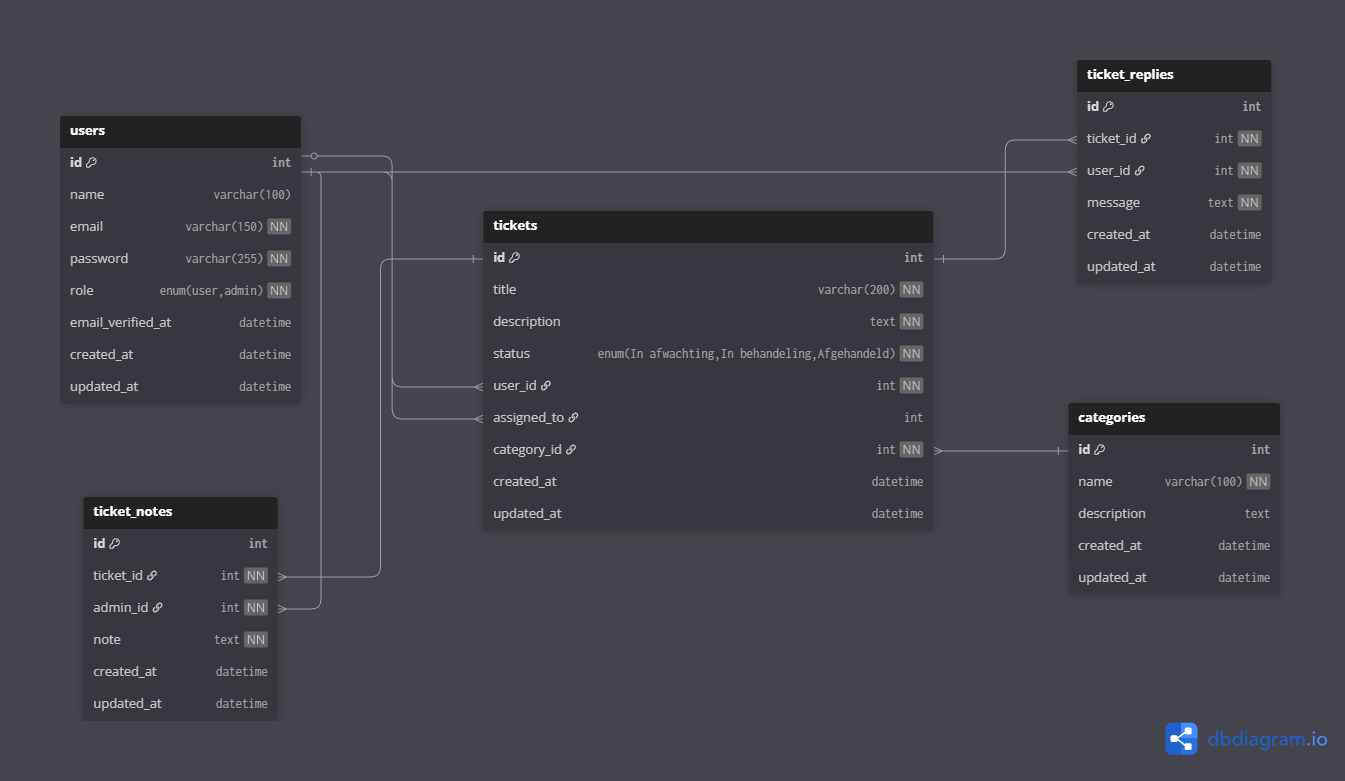
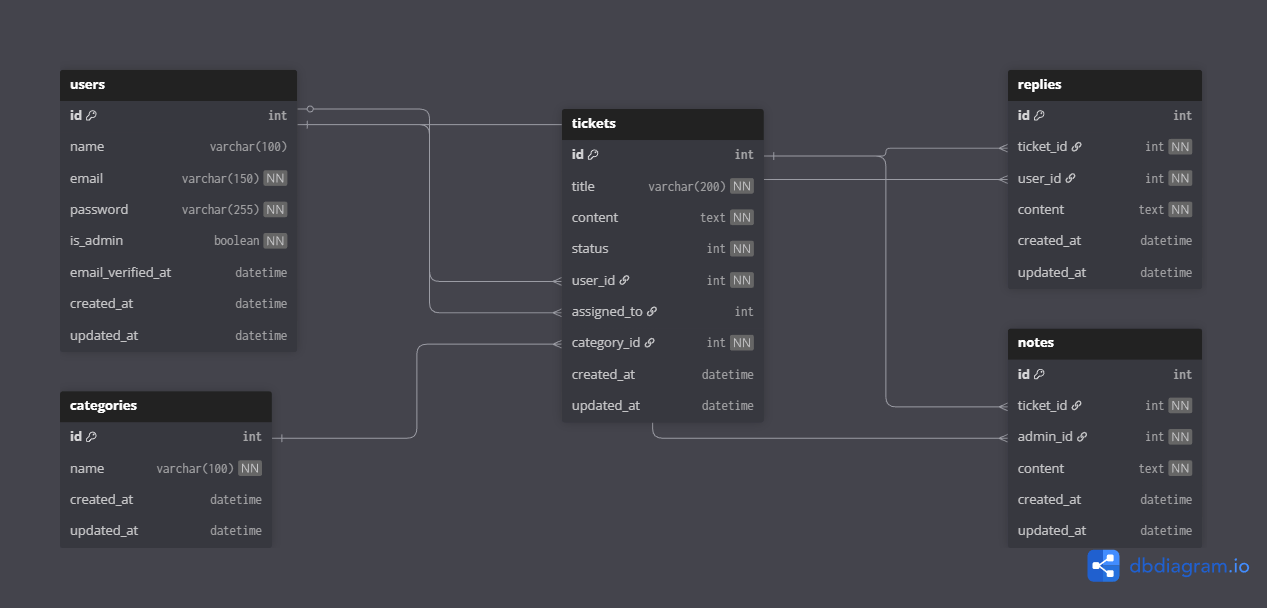
feat: Refactor ticketing system models and migrations, replacing ticket replies and notes with unified replies and notes structures

diff --git a/klantenhulpportaal/resources/js/services/store/index.ts b/klantenhulpportaal/resources/js/services/store/index.ts
@@ -1,54 +1,76 @@
-import { ref, computed } from 'vue';
-import { getRequest, postRequest, putRequest, deleteRequest } from '../http';
+import type {New, State, Updatable} from './types';
 
-export type New<T extends {id: number}> = Omit<T, 'id'>;
+import {computed, ref} from 'vue';
 
-export const storeModuleFactory = <T extends { id: number }>(moduleName:string) => {
-    const state = ref<Record<number, T>>({});
+import {deleteRequest, getRequest, postRequest, putRequest} from '../http';
+
+/**
+ * Creates a store module for the given module name.
+ */
+// eslint-disable-next-line max-lines-per-function
+export const storeModuleFactory = <T extends {id: number}>(moduleName: string) => {
+    const state: State<T> = ref({});
 
     const getters = {
-        all: computed(() => state.value),
-        getById: (id : number) => computed(() => state.value[id])
+        /** Get all items from the store */
+        all: computed(() => Object.values(state.value)),
+        /**
+         * Get an item from the state by id
+         */
+        byId: (id: number) => computed(() => state.value[id]),
     };
 
     const setters = {
+        /**
+         * Set items in the state.
+         */
         setAll: (items: T[]) => {
             for (const item of items) state.value[item.id] = Object.freeze(item);
         },
-
-        deleteByItem: (id: number) => {
+        /**
+         * Set one specific item in the storage
+         */
+        setById: (item: T) => {
+            state.value[item.id] = Object.freeze(item);
+        },
+        /**
+         * Delete one specific item in the storage by id
+         */
+        deleteById: (id: number) => {
             delete state.value[id];
-        }
+        },
     };
 
     const actions = {
         getAll: async () => {
-            const { data } = await getRequest(moduleName);
+            const {data} = await getRequest(moduleName);
             if (!data) return;
             setters.setAll(data);
         },
-
-        create: async (item: New<T>) => {
-            const { data } = await postRequest(moduleName, item);
+        getById: async (id: number) => {
+            const {data} = await getRequest(`${moduleName}/${id}`);
             if (!data) return;
-            setters.setAll(data);
+            setters.setById(data);
         },
-
-        update: async (id: number, item: T) => {
-            const { data } = await putRequest(`${moduleName}/${id}`, item);
+        create: async (newItem: New<T>) => {
+            const {data} = await postRequest(moduleName, newItem);
             if (!data) return;
-            setters.setAll(data);
+            setters.setById(data);
         },
-
+        update: async (id: number, item: Updatable<T>) => {
+            const {data} = await putRequest(`${moduleName}/${id}`, item);
+            if (!data) return;
+            setters.setById(data);
+        },
         delete: async (id: number) => {
-            const response = await deleteRequest(`${moduleName}/${id}`);
-            if (response && (!response.data || !response.data.message)) {
-                setters.deleteByItem(id);
-            }
-            return response;
-        }
-        
+            await deleteRequest(`${moduleName}/${id}`);
+            setters.deleteById(id);
+        },
     };
 
-    return { getters, setters, actions };
+    return {
+        getters,
+        setters,
+        actions,
+    };
 };

diff --git a/klantenhulpportaal/resources/js/services/store/types.ts b/klantenhulpportaal/resources/js/services/store/types.ts
@@ -1,0 +1,9 @@
+import type {Ref} from 'vue';
+
+export type State<T extends {id: number}> = Ref<{[id: number]: Readonly<T>}>;
+
+export type New<T extends {id: number}> = Omit<T, 'id'>;
+
+export type Updatable<T extends {id: number}> = New<T> & {
+    id?: number;
+};

diff --git a/klantenhulpportaal/database/migrations/2025_11_05_133430_create_tickets_table.php b/klantenhulpportaal/database/migrations/2025_11_05_133430_create_tickets_table.php
@@ -14,10 +14,10 @@ return new class extends Migration
         Schema::create('tickets', function (Blueprint $table) {
             $table->id();
             $table->string('title', 200);
-            $table->text('description');
-            $table->enum('status', ['In afwachting', 'In behandeling', 'Afgehandeld'])->default('In afwachting');
+            $table->text('content');
+            $table->integer('status');
             $table->foreignId('user_id')->constrained('users')->onDelete('cascade');
-            $table->foreignId('admin_id')->nullable()->constrained('users')->onDelete('set null');
+            $table->foreignId('assigned_to')->nullable()->constrained('users')->onDelete('set null');
             $table->foreignId('category_id')->constrained('categories')->onDelete('cascade');
             $table->timestamps();
         });

diff --git a/klantenhulpportaal/database/migrations/2025_11_05_133504_create_replies_table.php b/klantenhulpportaal/database/migrations/2025_11_05_133504_create_replies_table.php
@@ -11,11 +11,11 @@ return new class extends Migration
      */
     public function up(): void
     {
-        Schema::create('tickets_replies', function (Blueprint $table) {
+        Schema::create('replies', function (Blueprint $table) {
             $table->id();
             $table->foreignId('ticket_id')->constrained('tickets')->onDelete('cascade');
             $table->foreignId('user_id')->constrained('users')->onDelete('cascade');
-            $table->text('message');
+            $table->text('content');
             $table->timestamps();
         });
     }
@@ -25,6 +25,6 @@ return new class extends Migration
      */
     public function down(): void
     {
-        Schema::dropIfExists('tickets_replies');
+        Schema::dropIfExists('replies');
     }
 };

diff --git a/klantenhulpportaal/database/migrations/2025_11_05_133518_create_notes_table.php b/klantenhulpportaal/database/migrations/2025_11_05_133518_create_notes_table.php
@@ -11,11 +11,11 @@ return new class extends Migration
      */
     public function up(): void
     {
-        Schema::create('tickets_notes', function (Blueprint $table) {
+        Schema::create('notes', function (Blueprint $table) {
             $table->id();
             $table->foreignId('ticket_id')->constrained('tickets')->onDelete('cascade');
             $table->foreignId('admin_id')->constrained('users')->onDelete('cascade');
-            $table->text('note');
+            $table->text('content');
             $table->timestamps();
         });
     }
@@ -25,6 +25,6 @@ return new class extends Migration
      */
     public function down(): void
     {
-        Schema::dropIfExists('tickets_notes');
+        Schema::dropIfExists('notes');
     }
 };

diff --git a/klantenhulpportaal/app/Models/Note.php b/klantenhulpportaal/app/Models/Note.php
@@ -5,25 +5,24 @@ namespace App\Models;
 use Illuminate\Database\Eloquent\Model;
 use Illuminate\Database\Eloquent\Factories\HasFactory;
 
-class TicketReply extends Model
+class Note extends Model
 {
     use HasFactory;
-    
+
     protected $fillable = [
         'ticket_id',
-        'user_id',
-        'message',
+        'admin_id',
+        'content',
     ];
 
     // Relations
-
     public function ticket()
     {
         return $this->belongsTo(Ticket::class);
     }
 
-    public function author()
+    public function admin()
     {
-        return $this->belongsTo(User::class, 'user_id');
+        return $this->belongsTo(User::class, 'admin_id');
     }
 }

diff --git a/klantenhulpportaal/app/Models/Reply.php b/klantenhulpportaal/app/Models/Reply.php
@@ -5,25 +5,24 @@ namespace App\Models;
 use Illuminate\Database\Eloquent\Model;
 use Illuminate\Database\Eloquent\Factories\HasFactory;
 
-class TicketNote extends Model
+class Reply extends Model
 {
     use HasFactory;
 
     protected $fillable = [
         'ticket_id',
-        'admin_id',
-        'note',
+        'user_id',
+        'content',
     ];
 
     // Relations
-
     public function ticket()
     {
         return $this->belongsTo(Ticket::class);
     }
 
-    public function admin()
+    public function author()
     {
-        return $this->belongsTo(User::class, 'admin_id');
+        return $this->belongsTo(User::class, 'user_id');
     }
 }

diff --git a/klantenhulpportaal/app/Models/User.php b/klantenhulpportaal/app/Models/User.php
@@ -22,7 +22,7 @@ class User extends Authenticatable
         'name',
         'email',
         'password',
-        'role',
+        'is_admin',
     ];
 
     /**
@@ -61,12 +61,12 @@ class User extends Authenticatable
 
     public function ticketReplies()
     {
-        return $this->hasMany(TicketReply::class, 'user_id');
+    return $this->hasMany(Reply::class, 'user_id');
     }
 
-    public function ticketNotes()
+    public function notes()
     {
-        return $this->hasMany(TicketNote::class, 'admin_id');
+        return $this->hasMany(Note::class, 'admin_id');
     }
 
 }

diff --git a/klantenhulpportaal/app/Models/Ticket.php b/klantenhulpportaal/app/Models/Ticket.php
@@ -11,7 +11,7 @@ class Ticket extends Model
 
     protected $fillable = [
         'title',
-        'description',
+        'content',
         'status',
         'user_id',
         'assigned_to',
@@ -37,12 +37,12 @@ class Ticket extends Model
 
     public function notes()
     {
-        return $this->hasMany(TicketNote::class);
+    return $this->hasMany(Note::class);
     }
 
     public function replies()
     {
-        return $this->hasMany(TicketReply::class);
+    return $this->hasMany(Reply::class);
     }
 
 }

diff --git a/klantenhulpportaal/database/seeders/DatabaseSeeder.php b/klantenhulpportaal/database/seeders/DatabaseSeeder.php
@@ -17,9 +17,18 @@ class DatabaseSeeder extends Seeder
     {
         // User::factory(10)->create();
 
+        // Create test user
+
         User::factory()->create([
-            'name' => 'Test User',
-            'email' => 'test@example.com',
+            'name' => 'Admin',
+            'email' => 'admin@example.com',
+        ]);
+
+        $this->call([
+            CategorySeeder::class,
+            TicketSeeder::class,
+            NoteSeeder::class,
+            ReplySeeder::class,
         ]);
     }
 }

diff --git a/klantenhulpportaal/database/migrations/0001_01_01_000000_create_users_table.php b/klantenhulpportaal/database/migrations/0001_01_01_000000_create_users_table.php
@@ -16,7 +16,7 @@ return new class extends Migration
             $table->string('name');
             $table->string('email')->unique();
             $table->string('password');
-            $table->enum('role', ['user', 'admin'])->default('user');
+            $table->boolean('is_admin')->default(false);
             $table->rememberToken();
             $table->timestamp('email_verified_at')->nullable();
             $table->timestamps();

diff --git a/klantenhulpportaal/database/factories/ReplyFactory.php b/klantenhulpportaal/database/factories/ReplyFactory.php
@@ -1,0 +1,18 @@
+<?php
+
+namespace Database\Factories;
+
+use App\Models\Reply;
+use Illuminate\Database\Eloquent\Factories\Factory;
+
+class ReplyFactory extends Factory
+{
+    protected $model = Reply::class;
+
+    public function definition(): array
+    {
+        return [
+            'content' => $this->faker->paragraph(),
+        ];
+    }
+}
